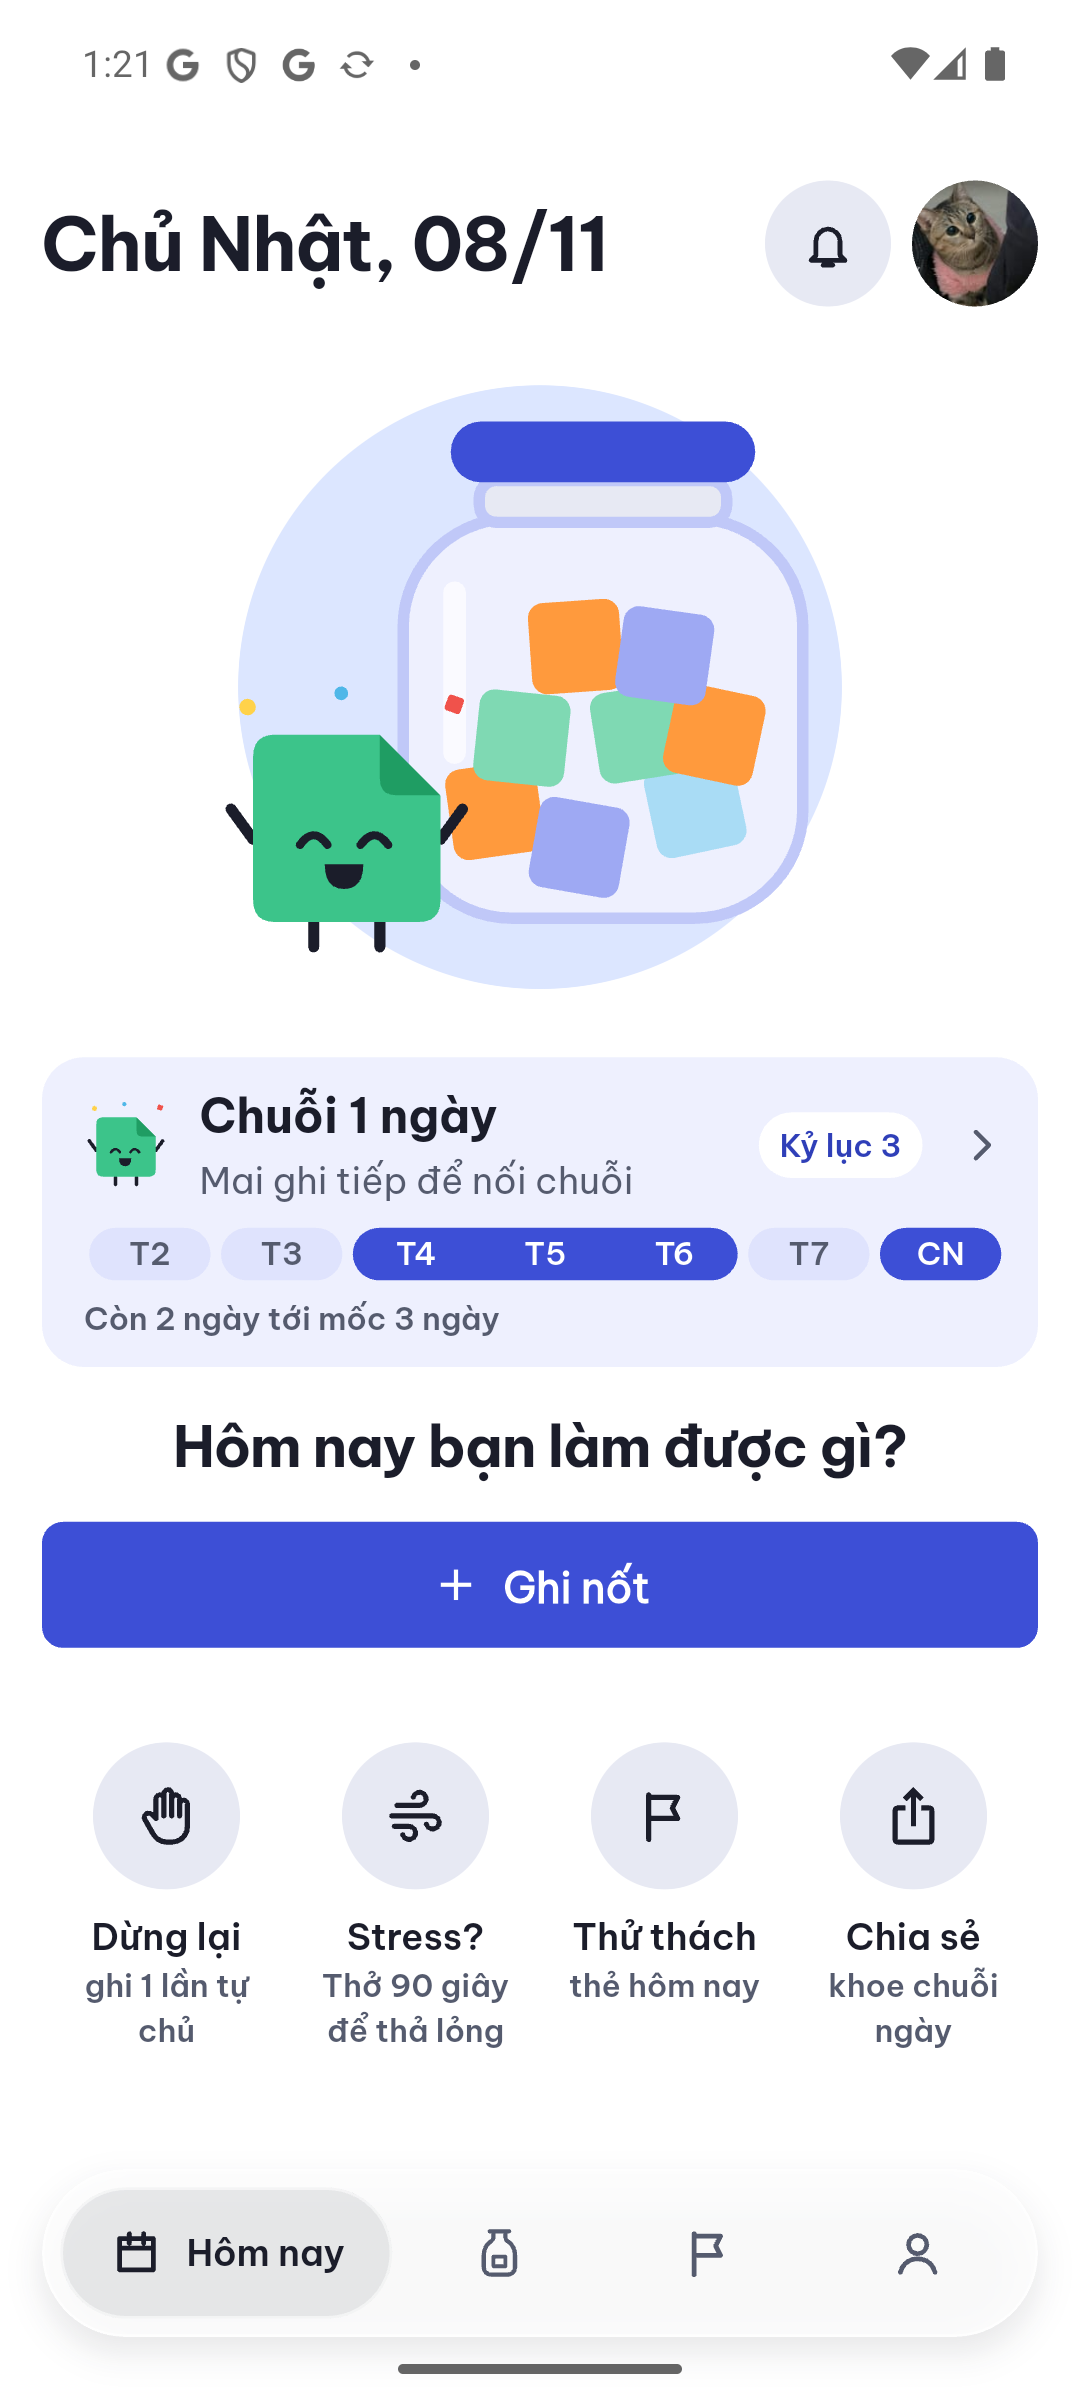
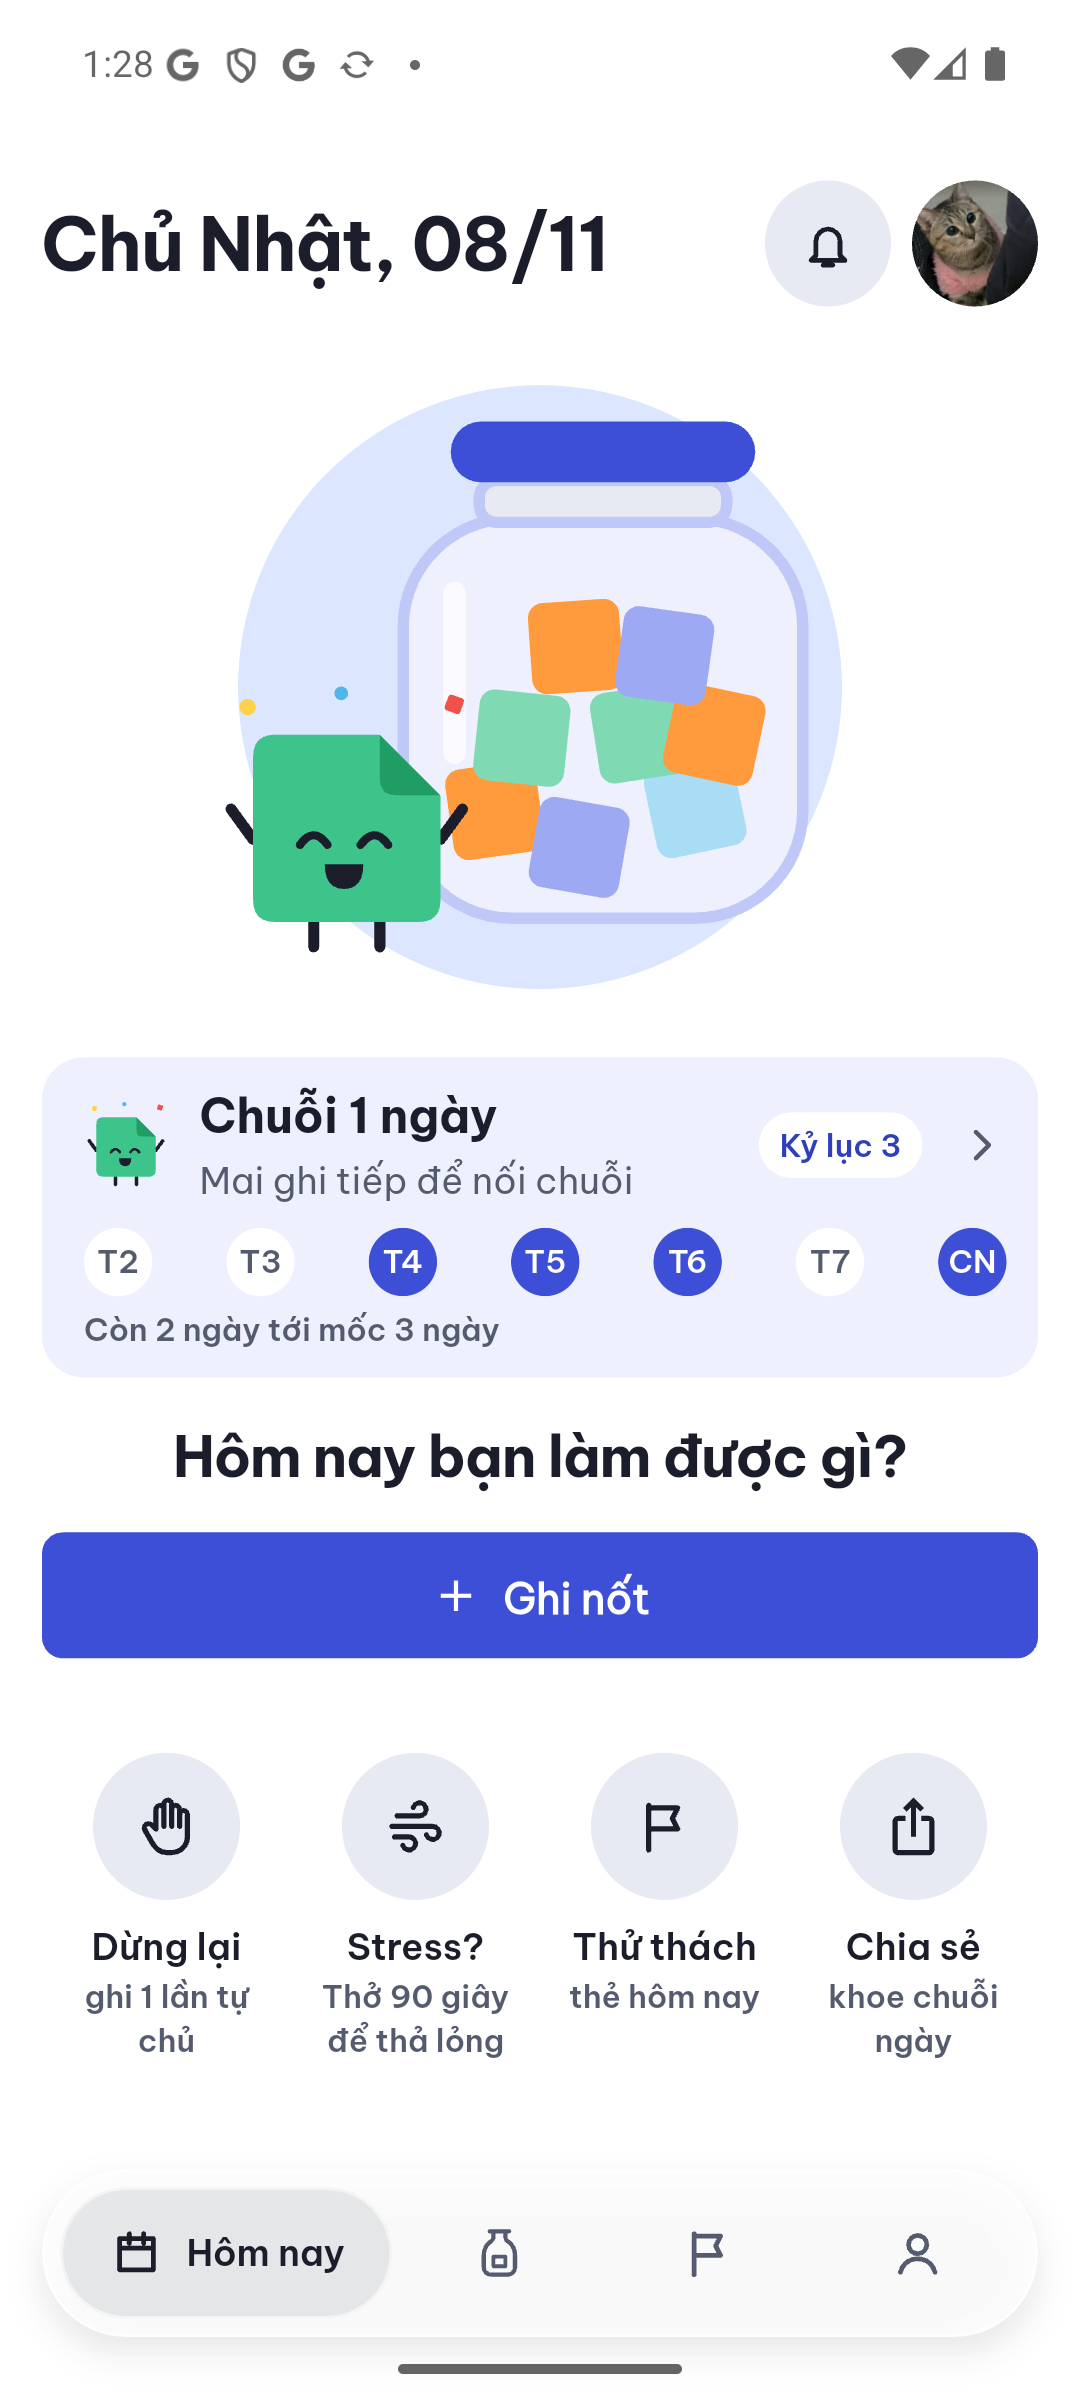
feat(streak): use evenly spaced round day dots
Round dots read better than the joined strip, but the earlier dots sat
close together on the left. The seven dots now spread across the card
with even gaps, and every dot shows its weekday; a logged day is a
primary dot with white text, an empty day is white, and today without a
note has a primary ring.

diff --git a/lib/widgets/streak_card.dart b/lib/widgets/streak_card.dart
@@ -118,11 +118,10 @@ class StreakCard extends StatelessWidget {
                       ),
                   ],
                 ),
-                // Bảy ngày nối thành một dải: ngày có nốt tô primary, các
-                // ngày liền nhau liền thành "chuỗi"; mốc kế tiếp ghi ngay dưới.
+                // Bảy ô tròn chia đều; mốc kế tiếp ghi ngay dưới.
                 Column(
                   crossAxisAlignment: CrossAxisAlignment.stretch,
-                  spacing: AppSpace.s6,
+                  spacing: AppSpace.s4,
                   children: <Widget>[
                     _WeekStrip(days: streak.days),
                     Text(
@@ -175,87 +174,51 @@ class _RecordPill extends StatelessWidget {
   }
 }
 
-/// Dải 7 ngày gần nhất chia đều theo chiều ngang, chữ thứ nằm trong từng
-/// đoạn: ngày có nốt là đoạn primary chữ trắng, ngày trống là đoạn `mono1`,
-/// hôm nay chưa ghi có viền primary. Các ngày có nốt liền nhau nối thành một
-/// dải liền, nhìn ra "chuỗi".
+/// Dải 7 ngày gần nhất: 7 ô tròn chia đều hết chiều ngang để không bị sát
+/// nhau. Mọi ô đều ghi chữ thứ (T2…CN), chỉ đổi màu: ngày có nốt là ô primary
+/// chữ trắng, ngày trống là ô trắng chữ nhạt, hôm nay chưa ghi có viền primary.
 class _WeekStrip extends StatelessWidget {
   const _WeekStrip({required this.days});
 
   final List<StreakDay> days;
 
-  @override
-  Widget build(BuildContext context) {
-    return Row(
-      children: <Widget>[
-        for (var i = 0; i < days.length; i++)
-          Expanded(
-            child: _Segment(
-              label: ViDateFormat.weekdayShort[days[i].day.weekday - 1],
-              filled: days[i].hasNote,
-              today: days[i].isToday,
-              // Nối liền với ngày bên cạnh khi cả hai đều có nốt.
-              joinLeft: i > 0 && days[i].hasNote && days[i - 1].hasNote,
-              joinRight:
-                  i < days.length - 1 && days[i].hasNote && days[i + 1].hasNote,
-            ),
-          ),
-      ],
-    );
-  }
-}
-
-class _Segment extends StatelessWidget {
-  const _Segment({
-    required this.label,
-    required this.filled,
-    required this.today,
-    required this.joinLeft,
-    required this.joinRight,
-  });
-
-  final String label;
-  final bool filled;
-  final bool today;
-  final bool joinLeft;
-  final bool joinRight;
+  /// Đường kính ô; đủ chỗ cho "CN" mà thẻ vẫn thấp như trước.
+  static const double _dot = 26;
 
   @override
   Widget build(BuildContext context) {
     final theme = Theme.of(context);
     final scheme = theme.colorScheme;
-    const round = Radius.circular(AppRadius.full);
-    return Padding(
-      padding: EdgeInsets.only(
-        left: joinLeft ? 0 : AppSpace.s2,
-        right: joinRight ? 0 : AppSpace.s2,
-      ),
-      child: Container(
-        height: AppSpace.s20,
-        alignment: Alignment.center,
-        decoration: BoxDecoration(
-          color: filled ? scheme.primary : AppPalette.mono1,
-          border: today && !filled
-              ? Border.all(color: scheme.primary, width: 1.5)
-              : null,
-          borderRadius: BorderRadius.horizontal(
-            left: joinLeft ? Radius.zero : round,
-            right: joinRight ? Radius.zero : round,
+
+    return Row(
+      mainAxisAlignment: MainAxisAlignment.spaceBetween,
+      children: <Widget>[
+        for (final day in days)
+          Container(
+            width: _dot,
+            height: _dot,
+            alignment: Alignment.center,
+            decoration: BoxDecoration(
+              shape: BoxShape.circle,
+              color: day.hasNote ? scheme.primary : scheme.surface,
+              border: day.isToday && !day.hasNote
+                  ? Border.all(color: scheme.primary, width: 1.5)
+                  : null,
+            ),
+            child: Text(
+              ViDateFormat.weekdayShort[day.day.weekday - 1],
+              style: theme.textTheme.labelSmall?.copyWith(
+                height: 1,
+                fontWeight: day.isToday ? FontWeight.w700 : null,
+                color: day.hasNote
+                    ? scheme.onPrimary
+                    : day.isToday
+                    ? scheme.primary
+                    : scheme.onSurfaceVariant,
+              ),
+            ),
           ),
-        ),
-        child: Text(
-          label,
-          style: theme.textTheme.labelSmall?.copyWith(
-            height: 1,
-            fontWeight: today ? FontWeight.w700 : null,
-            color: filled
-                ? scheme.onPrimary
-                : today
-                ? scheme.primary
-                : scheme.onSurfaceVariant,
-          ),
-        ),
-      ),
+      ],
     );
   }
 }
